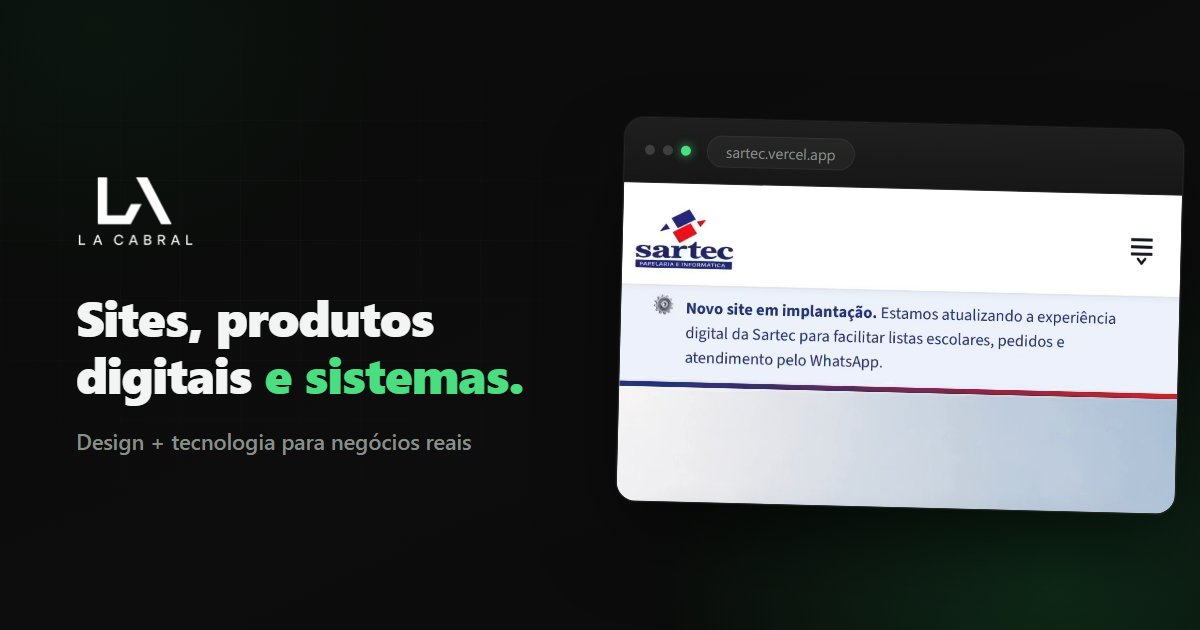
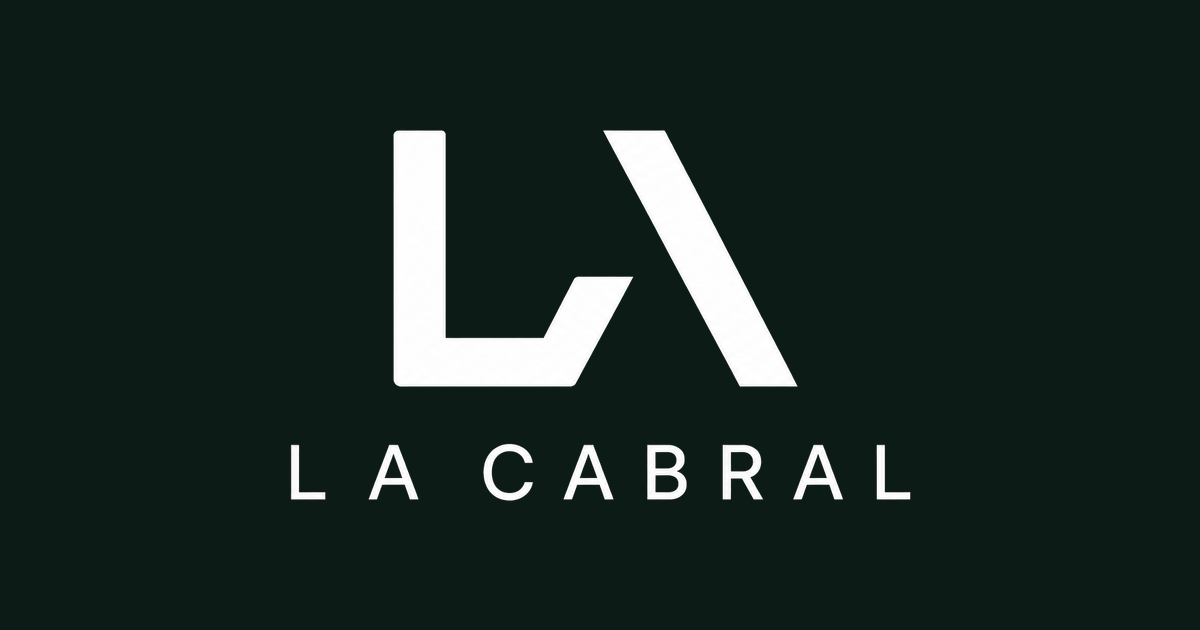
fix: simplifica imagem de compartilhamento da L A Cabral
Remove a composição promocional (screenshot do site, browser chrome)
do og-la-cabral.png e substitui por uma assinatura institucional:
fundo quase preto (#0D1B16, coerente com a identidade do site) com o
logotipo oficial completo centralizado e margens generosas em todos
os lados. Usa exclusivamente o asset oficial já existente no projeto
(assets/la-cabral-signature-white.png), sem geração ou reinterpretação
por IA. Atualiza o cache busting de og:image, og:image:secure_url e
twitter:image de ?v=4 para ?v=5 nas cinco páginas do site.

Changed region(s): [[0.0617, 0.181, 0.9867, 0.8143], [0.0617, 0.2714, 0.1542, 0.3921]]

diff --git a/sobre.html b/sobre.html
@@ -8,15 +8,15 @@
   <meta property="og:description" content="Um método formado dentro de uma operação comercial real de mais de 30 anos, aplicado hoje a diferentes empresas." data-i18n-attr="content:metaOgDescSobre" />
   <meta property="og:type" content="website" />
   <meta property="og:url" content="https://lacabral.vercel.app/sobre.html" />
-  <meta property="og:image" content="https://lacabral.vercel.app/assets/og-la-cabral.png?v=4" />
-  <meta property="og:image:secure_url" content="https://lacabral.vercel.app/assets/og-la-cabral.png?v=4" />
+  <meta property="og:image" content="https://lacabral.vercel.app/assets/og-la-cabral.png?v=5" />
+  <meta property="og:image:secure_url" content="https://lacabral.vercel.app/assets/og-la-cabral.png?v=5" />
   <meta property="og:image:type" content="image/png" />
   <meta property="og:image:width" content="1200" />
   <meta property="og:image:height" content="630" />
   <meta name="twitter:card" content="summary_large_image" />
   <meta name="twitter:title" content="Sobre a L A Cabral" data-i18n-attr="content:metaOgTitleSobre" />
   <meta name="twitter:description" content="Um método formado dentro de uma operação comercial real de mais de 30 anos, aplicado hoje a diferentes empresas." data-i18n-attr="content:metaOgDescSobre" />
-  <meta name="twitter:image" content="https://lacabral.vercel.app/assets/og-la-cabral.png?v=4" />
+  <meta name="twitter:image" content="https://lacabral.vercel.app/assets/og-la-cabral.png?v=5" />
   <link rel="icon" href="/assets/favicon-32.png" type="image/png" />
   <link rel="apple-touch-icon" href="/assets/apple-touch-icon.png" />
   <title data-i18n="docTitleSobre">Sobre — L A Cabral</title>

diff --git a/index.html b/index.html
@@ -8,15 +8,15 @@
   <meta property="og:description" content="Sites, produtos digitais e sistemas construídos a partir de problemas reais de negócio." data-i18n-attr="content:metaOgDescription" />
   <meta property="og:type" content="website" />
   <meta property="og:url" content="https://lacabral.vercel.app/" />
-  <meta property="og:image" content="https://lacabral.vercel.app/assets/og-la-cabral.png?v=4" />
-  <meta property="og:image:secure_url" content="https://lacabral.vercel.app/assets/og-la-cabral.png?v=4" />
+  <meta property="og:image" content="https://lacabral.vercel.app/assets/og-la-cabral.png?v=5" />
+  <meta property="og:image:secure_url" content="https://lacabral.vercel.app/assets/og-la-cabral.png?v=5" />
   <meta property="og:image:type" content="image/png" />
   <meta property="og:image:width" content="1200" />
   <meta property="og:image:height" content="630" />
   <meta name="twitter:card" content="summary_large_image" />
   <meta name="twitter:title" content="L A Cabral — Design e tecnologia para negócios reais" data-i18n-attr="content:metaOgTitle" />
   <meta name="twitter:description" content="Sites, produtos digitais e sistemas construídos a partir de problemas reais de negócio." data-i18n-attr="content:metaOgDescription" />
-  <meta name="twitter:image" content="https://lacabral.vercel.app/assets/og-la-cabral.png?v=4" />
+  <meta name="twitter:image" content="https://lacabral.vercel.app/assets/og-la-cabral.png?v=5" />
   <link rel="icon" href="/assets/favicon-32.png" type="image/png" />
   <link rel="apple-touch-icon" href="/assets/apple-touch-icon.png" />
   <title data-i18n="docTitle">L A Cabral — Sites, produtos digitais e sistemas</title>

diff --git a/como-trabalhamos.html b/como-trabalhamos.html
@@ -8,15 +8,15 @@
   <meta property="og:description" content="Entendemos a operação, desenhamos o caminho, implementamos e medimos — nessa ordem." data-i18n-attr="content:metaOgDescComoTrab" />
   <meta property="og:type" content="website" />
   <meta property="og:url" content="https://lacabral.vercel.app/como-trabalhamos.html" />
-  <meta property="og:image" content="https://lacabral.vercel.app/assets/og-la-cabral.png?v=4" />
-  <meta property="og:image:secure_url" content="https://lacabral.vercel.app/assets/og-la-cabral.png?v=4" />
+  <meta property="og:image" content="https://lacabral.vercel.app/assets/og-la-cabral.png?v=5" />
+  <meta property="og:image:secure_url" content="https://lacabral.vercel.app/assets/og-la-cabral.png?v=5" />
   <meta property="og:image:type" content="image/png" />
   <meta property="og:image:width" content="1200" />
   <meta property="og:image:height" content="630" />
   <meta name="twitter:card" content="summary_large_image" />
   <meta name="twitter:title" content="Como trabalhamos — L A Cabral" data-i18n-attr="content:metaOgTitleComoTrab" />
   <meta name="twitter:description" content="Entendemos a operação, desenhamos o caminho, implementamos e medimos — nessa ordem." data-i18n-attr="content:metaOgDescComoTrab" />
-  <meta name="twitter:image" content="https://lacabral.vercel.app/assets/og-la-cabral.png?v=4" />
+  <meta name="twitter:image" content="https://lacabral.vercel.app/assets/og-la-cabral.png?v=5" />
   <link rel="icon" href="/assets/favicon-32.png" type="image/png" />
   <link rel="apple-touch-icon" href="/assets/apple-touch-icon.png" />
   <title data-i18n="docTitleComoTrab">Como trabalhamos — L A Cabral</title>

diff --git a/solucoes.html b/solucoes.html
@@ -8,15 +8,15 @@
   <meta property="og:description" content="Você não precisa saber qual tecnologia precisa. A gente descobre isso com você." data-i18n-attr="content:metaOgDescSolucoes" />
   <meta property="og:type" content="website" />
   <meta property="og:url" content="https://lacabral.vercel.app/solucoes.html" />
-  <meta property="og:image" content="https://lacabral.vercel.app/assets/og-la-cabral.png?v=4" />
-  <meta property="og:image:secure_url" content="https://lacabral.vercel.app/assets/og-la-cabral.png?v=4" />
+  <meta property="og:image" content="https://lacabral.vercel.app/assets/og-la-cabral.png?v=5" />
+  <meta property="og:image:secure_url" content="https://lacabral.vercel.app/assets/og-la-cabral.png?v=5" />
   <meta property="og:image:type" content="image/png" />
   <meta property="og:image:width" content="1200" />
   <meta property="og:image:height" content="630" />
   <meta name="twitter:card" content="summary_large_image" />
   <meta name="twitter:title" content="Soluções — L A Cabral" data-i18n-attr="content:metaOgTitleSolucoes" />
   <meta name="twitter:description" content="Você não precisa saber qual tecnologia precisa. A gente descobre isso com você." data-i18n-attr="content:metaOgDescSolucoes" />
-  <meta name="twitter:image" content="https://lacabral.vercel.app/assets/og-la-cabral.png?v=4" />
+  <meta name="twitter:image" content="https://lacabral.vercel.app/assets/og-la-cabral.png?v=5" />
   <link rel="icon" href="/assets/favicon-32.png" type="image/png" />
   <link rel="apple-touch-icon" href="/assets/apple-touch-icon.png" />
   <title data-i18n="docTitleSolucoes">Soluções — L A Cabral</title>

diff --git a/cases.html b/cases.html
@@ -8,15 +8,15 @@
   <meta property="og:description" content="Como pensamos, na prática: ecossistemas conectados, não entregas isoladas." data-i18n-attr="content:metaOgDescCases" />
   <meta property="og:type" content="website" />
   <meta property="og:url" content="https://lacabral.vercel.app/cases.html" />
-  <meta property="og:image" content="https://lacabral.vercel.app/assets/og-la-cabral.png?v=4" />
-  <meta property="og:image:secure_url" content="https://lacabral.vercel.app/assets/og-la-cabral.png?v=4" />
+  <meta property="og:image" content="https://lacabral.vercel.app/assets/og-la-cabral.png?v=5" />
+  <meta property="og:image:secure_url" content="https://lacabral.vercel.app/assets/og-la-cabral.png?v=5" />
   <meta property="og:image:type" content="image/png" />
   <meta property="og:image:width" content="1200" />
   <meta property="og:image:height" content="630" />
   <meta name="twitter:card" content="summary_large_image" />
   <meta name="twitter:title" content="Projetos — L A Cabral" data-i18n-attr="content:metaOgTitleCases" />
   <meta name="twitter:description" content="Como pensamos, na prática: ecossistemas conectados, não entregas isoladas." data-i18n-attr="content:metaOgDescCases" />
-  <meta name="twitter:image" content="https://lacabral.vercel.app/assets/og-la-cabral.png?v=4" />
+  <meta name="twitter:image" content="https://lacabral.vercel.app/assets/og-la-cabral.png?v=5" />
   <link rel="icon" href="/assets/favicon-32.png" type="image/png" />
   <link rel="apple-touch-icon" href="/assets/apple-touch-icon.png" />
   <title data-i18n="docTitleCases">Projetos — L A Cabral</title>
